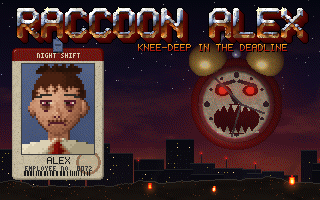
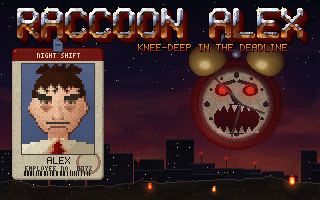
Make Alex's face look like Alex
The first hand-drawn pass missed what makes his photo recognisable. He
now has pale skin (the lightest end of the skin ramp, not tan), a broad,
fleshy face with a soft wide jaw, thick dark low brows pulled into a
frown, narrow heavy-lidded hazel-green eyes with subtle brownish
circles, a long broad nose with a round tip, very dark hair, and a thin
dark moustache over pressed lips. The moustache stays crisp so it no
longer blurs into a stripe, the fringe strands only appear at portrait
size, and the dead frame uses a proper pale ramp.

diff --git a/tools/art/ui/face.js b/tools/art/ui/face.js
@@ -18,25 +18,30 @@ import { part, stamp, paint } from '../lib/pixels.js';
 export const FACE_W = 24;
 export const FACE_H = 30;
 
-const SKIN = [0.88, 0.79, 0.7, 0.61, 0.52, 0.43].map((t) => C('skin', t));
-const HAIR = [0.26, 0.18, 0.12, 0.07].map((t) => C('rust', t));
+// Pale, slightly pink skin: light to shadow.
+const SKIN = [1, 0.94, 0.88, 0.81, 0.73, 0.64].map((t) => C('skin', t));
+// Dead and grey.
+const PALE = [0.95, 0.88, 0.8, 0.72, 0.64, 0.56].map((t) => C('beige', t));
+const HAIR = [C('rust', 0.16), C('rust', 0.11), C('rust', 0.07), C('gray', 0.05)];
 const SHIRT = [0.97, 0.88, 0.76, 0.62].map((t) => C('beige', t));
 const TIE = [C('blood', 0.55), C('blood', 0.42), C('blood', 0.3)];
 
 const L = {
-  V: C('flesh', 0.28), // lids, creases, mouth line
-  e: C('beige', 0.9), // eye whites
-  E: C('flesh', 0.74), // bloodshot
-  p: C('rust', 0.1), // pupils
+  V: C('skin', 0.42), // lids, creases, mouth line
+  e: C('beige', 0.84), // eye whites
+  E: C('flesh', 0.8), // bloodshot
+  p: C('olive', 0.3), // hazel-green eyes
+  n: C('skin', 0.55), // nostrils
+  q: C('skin', 0.7), // lower lip
   P: C('blood', 0.45), // rampage pupils
-  g: C('skin', 0.46), // bags
-  G: C('rust', 0.3),
-  h: C('concrete', 0.1), // brows
+  g: C('skin', 0.68), // dark circles and bags
+  G: C('skin', 0.56),
+  h: C('concrete', 0.14), // thick dark brows
   k: C('gray', 0.07), // raccoon mask
   f: C('gray', 0.8), // pale fur above the mask
   w: C('beige', 0.95), // teeth
   r: C('blood', 0.15), // open mouth
-  B: C('rust', 0.3), // moustache
+  B: C('concrete', 0.2), // thin dark moustache
   l: C('blood', 0.5), // blood
   v: C('purple', 0.4), // bruise
   y: G('yellow', 1), // god-mode glow
@@ -83,7 +88,7 @@ function head(k, { turn = 0, tier = 0, pale = false } = {}) {
   const h = Math.round(FACE_H * k);
   const c = new PixelCanvas(w, h);
   const cx = 12 + turn * 0.5;
-  const skin = pale ? SKIN.map((col) => [...col].map((v, i) => (i === 2 ? v + 6 : v - 8))) : SKIN;
+  const skin = pale ? PALE : SKIN;
   for (let y = 0; y < h; y++) {
     for (let x = 0; x < w; x++) {
       const u = (x + 0.5) / k;
@@ -106,8 +111,8 @@ function head(k, { turn = 0, tier = 0, pale = false } = {}) {
         if (e >= 0) col = pick(skin, e, 1);
       }
       // The face: a full, round oval that narrows a little to the jaw.
-      const taper = v > 15 ? 1 - 0.28 * ((v - 15) / 8.8) ** 2 : 1;
-      const f = lit(u, v, cx, 13.6, 8 * taper, 10.3);
+      const taper = v > 16 ? 1 - 0.16 * ((v - 16) / 8) ** 2 : 1;
+      const f = lit(u, v, cx, 13.8, 8.6 * taper, 10.4);
       if (f >= 0) {
         col = pick(skin, f);
         // Stubble on his jaw and upper lip: a darker grain, worse each tier.
@@ -120,7 +125,7 @@ function head(k, { turn = 0, tier = 0, pale = false } = {}) {
       const hl = lit(u, v, cx, 12.2, 8.8, 10.9);
       const side = Math.abs(u - cx);
       const hairline = side > 6.4 ? 11.2 : 7.6 + (side > 3.2 ? 0.5 : 0) - 0.4 * Math.cos(u * 2.1);
-      const fringe = v < 9.6 && [8.2, 11.3, 14.6].some((s) => Math.abs(u - (s + turn * 0.5)) < 0.45 + 0.3 / k);
+      const fringe = k > 1 && v < 9.6 && [8.2, 11.3, 14.6].some((s) => Math.abs(u - (s + turn * 0.5)) < 0.45 + 0.3 / k);
       if (hl >= 0 && (v < hairline || fringe)) col = pick(HAIR, hl);
       if (col) c.set(x, y, col);
     }
@@ -150,22 +155,24 @@ const SMALL = {
   eyeGod: { L: ['.VV.', 'VyYy'], R: ['.VV.', 'yYyV'] },
   eyeShut: ['....', 'VVVV'],
   // Bags under the eyes, growing each tier.
-  bags: [['ugGu'], ['gGGg'], ['gGGg', 'uggu'], ['gGGg', 'uggu'], ['GGGG', 'gGGg']],
+  bags: [['.gg.'], ['gggg'], ['gGGg', '.gg.'], ['gGGg', '.gg.'], ['GGGG', 'gGGg']],
   // The raccoon mask (tiers 3-4): pale fur, then a black band over both eyes.
   mask: [
     P(['....ffffffffffffffff....', '...kkkkkkkkkkkkkkkkkk...', '...kkkkkkkkkkkkkkkkkk...', '....kkkkkkkk.kkkkkkk....', '.....kkkk......kkkk.....']),
     P(['...fffffffffffffffffff..', '..kkkkkkkkkkkkkkkkkkkk..', '..kkkkkkkkkkkkkkkkkkkk..', '..kkkkkkkkkkkkkkkkkkkk..', '...kkkkkkk....kkkkkkk...', '....kkkk........kkkk....']),
   ],
+  // Thick, dark, low brows, pulled into a frown at the middle.
   brows: {
-    tired: { L: ['..hhh', 'hh...'], R: ['hhh..', '...hh'] },
-    worried: { L: ['...hh', 'hhh..'], R: ['hh...', '..hhh'] },
-    angry: { L: ['hhh..', '...hh'], R: ['..hhh', 'hh...'] },
-    raised: { L: ['.hhh.', 'h...h'], R: ['.hhh.', 'h...h'] },
+    tired: { L: ['hhh..', 'hhhhh'], R: ['..hhh', 'hhhhh'] },
+    worried: { L: ['..hhh', 'hhhh.'], R: ['hhh..', '.hhhh'] },
+    angry: { L: ['hh...', 'hhhhh'], R: ['...hh', 'hhhhh'] },
+    raised: { L: ['.hhhh', 'hh...'], R: ['hhhh.', '...hh'] },
   },
-  nose: P(['.St', '.St', '.Su', 'SsU', 'uVu']),
+  // A long, broad nose with a round tip.
+  nose: P(['.St.', '.St.', '.Stu', 'sSSu', 'SSsu', 'nUun']),
   moustache: P(['BBBBBB']),
   mouth: {
-    neutral: ['uVVVVu', 'V....V'],
+    neutral: ['VVVVVV', '.qqqq.'],
     ouch: ['.VrrV.', '.VrrV.'],
     grin: ['VwwwwV', '.VVVV.'],
     god: ['VwwwyV', '.VVVV.'],
@@ -209,15 +216,15 @@ export function faceFrame(o = {}) {
   at(P(SMALL.brows[brow].R), 14, by - (masked ? 1 : 0));
 
   // Nose, moustache, mouth.
-  at(SMALL.nose, 11, 14);
+  at(SMALL.nose, 10, 13);
   at(SMALL.moustache, 9, 19);
-  at(P(SMALL.mouth[dead ? 'dead' : expr in SMALL.mouth ? expr : 'neutral']), 9, 20);
+  at(P(SMALL.mouth[dead ? 'dead' : expr in SMALL.mouth ? expr : 'neutral']), 9, 21);
 
   // Damage: a bruise, then blood from the forehead and the lip.
   if (hurt && tier >= 2) at(SMALL.bruise, 16, 16);
   if (hurt && tier >= 3) {
     at(P(['l..', 'l..', '.l.', '.l.', '.l.', '..l']), 15, 4);
-    at(P(['l', 'l']), 8, 21);
+    at(P(['l', 'l']), 8, 22);
   }
   if (hurt && tier >= 4) {
     at(P(['l.', 'l.', 'l.', 'l.', '.l']), 8, 3);
@@ -254,14 +261,14 @@ const BIG = {
     '........dddddDdDDdddddddddddd.......',
     '.......dddddDDDdDdddddddddddd.......',
   ]),
-  eyeL: ['VVVVVV', 'VeEppe', 'uVVVVu'],
-  eyeR: ['VVVVVV', 'eppEeV', 'uVVVVu'],
-  bags: ['ugGGgu', '.gggg.', '..VV..'],
-  browL: ['..hhhhhh', 'hhh.....'],
-  browR: ['hhhhhh..', '.....hhh'],
-  nose: P(['.St..', '.St..', '.Stu.', '.Stu.', 'SsStu', 'sSstU', 'uVsVu']),
-  moustache: P(['BBBBBBBBB']),
-  mouth: P(['uVVVVVVVu', 'V.......V']),
+  eyeL: ['VVVVVV', 'VeppeE', '.uuuu.'],
+  eyeR: ['VVVVVV', 'EeppeV', '.uuuu.'],
+  bags: ['gggggg', '.gGGg.', '..gg..'],
+  browL: ['hhhhh...', 'hhhhhhhh', '.hhhhhhh'],
+  browR: ['...hhhhh', 'hhhhhhhh', 'hhhhhhh.'],
+  nose: P(['..St..', '..St..', '..Stu.', '..Stu.', '.sStu.', '.SSstu', 'sSSstu', 'uSSsuU', 'nUuuUn']),
+  moustache: P(['BBBBBBBBBBBB']),
+  mouth: P(['.VVVVVVVV.', 'V.uuuuuu.V']),
 };
 
 export function alexPortrait() {
@@ -273,9 +280,9 @@ export function alexPortrait() {
   }
   stamp(c, P(BIG.browL), 7, 15);
   stamp(c, P(BIG.browR), 21, 15);
-  stamp(c, BIG.nose, 15, 20);
-  stamp(c, BIG.moustache, 13, 28);
-  stamp(c, BIG.mouth, 13, 29);
+  stamp(c, BIG.nose, 15, 19);
+  stamp(c, BIG.moustache, 12, 29);
+  stamp(c, BIG.mouth, 13, 31);
   const small = paint(c, {
     blend: ['skin', 'rust', 'beige', 'blood'],
     crisp: ['gray', 'concrete', 'purple', 'flesh'],
